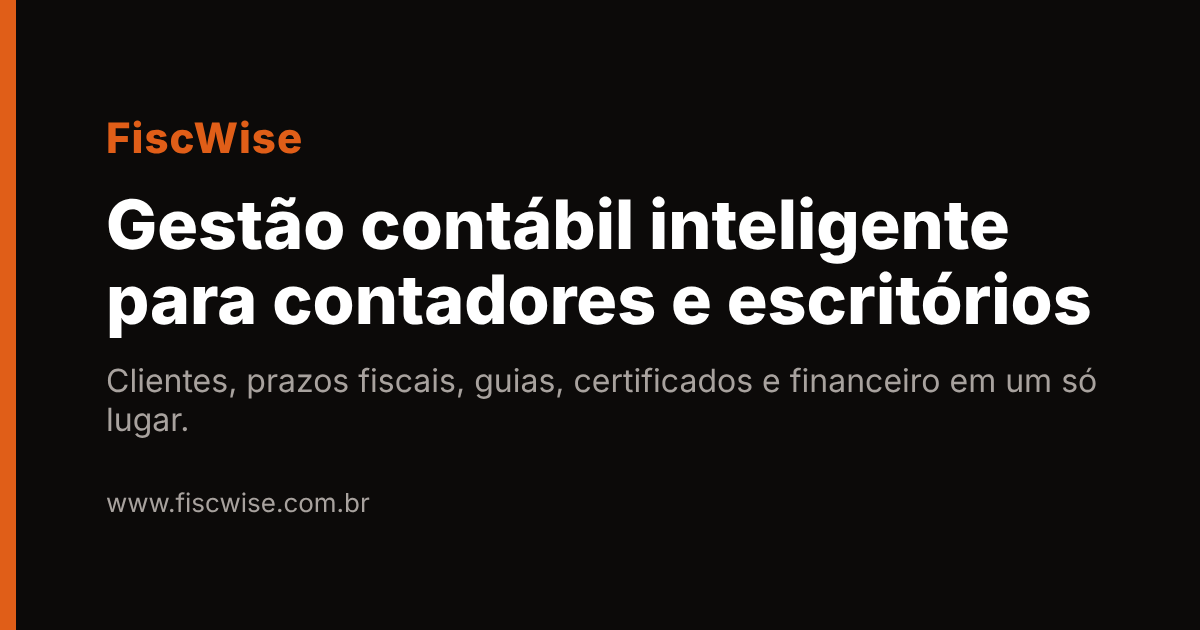
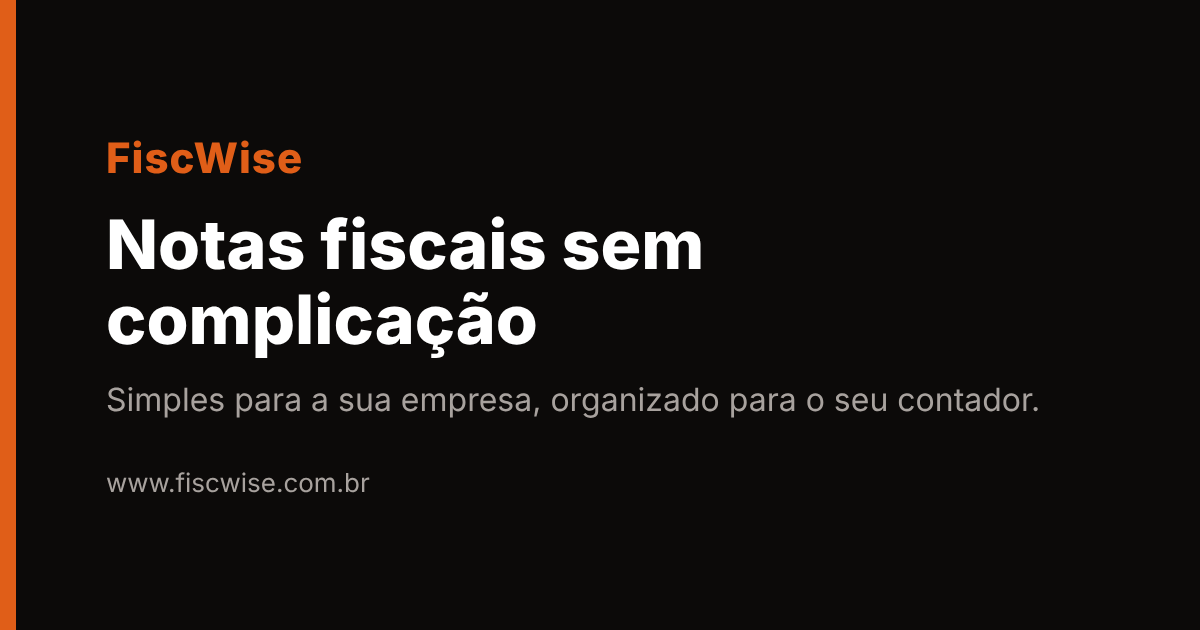
feat(seo): alinha titulos e descricoes ao posicionamento (sem prometer recursos nao lancados)
Claude-Session: https://claude.ai/code/session_0112FhRrGcaLcSm8QCpFB4gY

Changed region(s): [[0.0925, 0.3016, 0.925, 0.6937], [0.0925, 0.181, 0.2775, 0.2714], [0.0925, 0.754, 0.3083, 0.8143]]

diff --git a/frontend/index.html b/frontend/index.html
@@ -11,10 +11,10 @@
     <meta name="viewport" content="width=device-width, initial-scale=1.0" />
 
     <!-- SEO / meta primários -->
-    <title>FiscWise — Gestão Contábil Inteligente</title>
+    <title>FiscWise — Notas fiscais sem complicação</title>
     <meta
       name="description"
-      content="FiscWise é o sistema de gestão contábil para contadores e escritórios: clientes, documentos, obrigações e prazos fiscais, guias, certificados digitais e financeiro em um só lugar."
+      content="Emita notas fiscais sem complicação. Simples para a sua empresa, organizado para o seu contador: clientes, documentos, prazos fiscais, guias e certificados em um só lugar."
     />
     <meta name="theme-color" content="#e05e18" />
     <meta name="robots" content="index, follow, max-image-preview:large" />
@@ -29,17 +29,17 @@
     <meta property="og:locale"      content="pt_BR" />
     <meta property="og:site_name"   content="FiscWise" />
     <meta property="og:url"         content="https://www.fiscwise.com.br/" />
-    <meta property="og:title"       content="FiscWise — Gestão Contábil Inteligente" />
-    <meta property="og:description" content="Unifique clientes, documentos, certificados e prazos fiscais. Simplifique a operação do seu escritório contábil." />
+    <meta property="og:title"       content="FiscWise — Notas fiscais sem complicação" />
+    <meta property="og:description" content="Simples para a sua empresa, organizado para o seu contador. Notas, prazos fiscais, guias e documentos em um só lugar." />
     <meta property="og:image"       content="https://www.fiscwise.com.br/og-image.png" />
     <meta property="og:image:width" content="1200" />
     <meta property="og:image:height" content="630" />
-    <meta property="og:image:alt"   content="FiscWise — gestão contábil inteligente para contadores e escritórios" />
+    <meta property="og:image:alt"   content="FiscWise — Notas fiscais sem complicação, organizadas para o seu contador" />
 
     <!-- Twitter Card -->
     <meta name="twitter:card"        content="summary_large_image" />
-    <meta name="twitter:title"       content="FiscWise — Gestão Contábil Inteligente" />
-    <meta name="twitter:description" content="Plataforma de gestão para contadores e escritórios de contabilidade." />
+    <meta name="twitter:title"       content="FiscWise — Notas fiscais sem complicação" />
+    <meta name="twitter:description" content="Notas fiscais e gestão fiscal para empresas e contadores." />
     <meta name="twitter:image"       content="https://www.fiscwise.com.br/og-image.png" />
 
     <!-- Fontes V-STACK: Syne (display) + Geist (corpo) + JetBrains Mono (dados) — swap para sem FOIT -->
@@ -63,7 +63,7 @@
           "@id": "https://www.fiscwise.com.br/#software",
           "name": "FiscWise",
           "url": "https://www.fiscwise.com.br",
-          "description": "Plataforma de gestão contábil inteligente para escritórios de contabilidade. Gerencie clientes, documentos, certificados digitais, prazos fiscais e financeiro em um único lugar.",
+          "description": "Sistema de gestão fiscal para pequenas empresas e escritórios de contabilidade: notas fiscais, clientes, documentos, certificados digitais, prazos fiscais e financeiro em um único lugar.",
           "applicationCategory": "BusinessApplication",
           "applicationSubCategory": "Contabilidade",
           "operatingSystem": "Web",
@@ -127,8 +127,8 @@
     <div id="root"></div>
     <noscript>
       <main style="max-width:640px;margin:48px auto;padding:0 16px;font-family:system-ui,sans-serif;line-height:1.6">
-        <h1>FiscWise — gestão contábil inteligente</h1>
-        <p>Sistema para contadores e escritórios de contabilidade: clientes, documentos, obrigações e prazos fiscais, guias, certificados digitais, fechamento mensal e financeiro em um só lugar.</p>
+        <h1>FiscWise — Notas fiscais sem complicação</h1>
+        <p>Emita notas fiscais sem complicação. Simples para a sua empresa, organizado para o seu contador: clientes, documentos, obrigações e prazos fiscais, guias, certificados digitais, fechamento mensal e financeiro em um só lugar.</p>
         <p>O FiscWise precisa de JavaScript para funcionar. <a href="/faq/">Perguntas frequentes</a> · <a href="/register">Criar conta</a> · <a href="/login">Entrar</a></p>
       </main>
     </noscript>

diff --git a/frontend/src/lib/RouteTitle.tsx b/frontend/src/lib/RouteTitle.tsx
@@ -5,7 +5,7 @@ import { matchPath, useLocation } from 'react-router-dom';
  * Per-route document title management.
  *
  * The SPA only had the static <title> from index.html, so every internal
- * screen showed "FiscWise — Gestão Contábil Inteligente" (bad for browser
+ * screen showed "FiscWise — Notas fiscais sem complicação" (bad for browser
  * tabs, history and bookmarks — CORRECOES.md, audit of internal routes).
  *
  * This component maps the current pathname to a friendly title and updates
@@ -66,15 +66,15 @@ export function resolveTitle(pathname: string): string {
     }
   }
   // Fallback: keep the brand title for unmapped routes.
-  return `${SUFFIX} — Gestão Contábil Inteligente`;
+  return `${SUFFIX} — Notas fiscais sem complicação`;
 }
 
 const SITE = 'https://www.fiscwise.com.br';
 
 /** Páginas públicas indexáveis: caminho → descrição única. */
 const PUBLIC_META: Readonly<Record<string, string>> = {
-  '/login': 'Entre no FiscWise, o sistema de gestão contábil para contadores e escritórios: clientes, prazos fiscais, guias e documentos em um só lugar.',
-  '/register': 'Crie sua conta no FiscWise e organize clientes, obrigações fiscais, guias, certificados e financeiro do seu escritório contábil.',
+  '/login': 'Entre no FiscWise, notas fiscais sem complicação para empresas e contadores: clientes, prazos fiscais, guias e documentos em um só lugar.',
+  '/register': 'Crie sua conta no FiscWise: notas fiscais, clientes, obrigações fiscais, guias e certificados em um só lugar, simples para a empresa e organizado para o contador.',
   '/termos': 'Termos de uso do FiscWise, sistema de gestão contábil da Vstack Solutions.',
   '/privacidade': 'Política de privacidade do FiscWise: como tratamos dados pessoais conforme a LGPD.',
 };

diff --git a/frontend/public/faq/index.html b/frontend/public/faq/index.html
@@ -13,7 +13,7 @@
   <meta property="og:site_name" content="FiscWise" />
   <meta property="og:url" content="https://www.fiscwise.com.br/faq/" />
   <meta property="og:title" content="Perguntas frequentes — FiscWise" />
-  <meta property="og:description" content="Respostas diretas sobre o FiscWise, o sistema de gestão contábil para contadores e escritórios." />
+  <meta property="og:description" content="Respostas diretas sobre o FiscWise, notas fiscais e gestão fiscal para empresas e contadores." />
   <meta property="og:image" content="https://www.fiscwise.com.br/og-image.png" />
   <meta property="og:image:width" content="1200" />
   <meta property="og:image:height" content="630" />

diff --git a/frontend/src/lib/RouteTitle.test.ts b/frontend/src/lib/RouteTitle.test.ts
@@ -29,6 +29,6 @@ describe('resolveTitle', () => {
   });
 
   it('falls back to the brand title for unmapped routes', () => {
-    expect(resolveTitle('/rota-inexistente')).toBe('FiscWise — Gestão Contábil Inteligente');
+    expect(resolveTitle('/rota-inexistente')).toBe('FiscWise — Notas fiscais sem complicação');
   });
 });

diff --git a/README.md b/README.md
@@ -6,7 +6,7 @@
 
 ## 1. O que é o FiscWise
 
-O FiscWise é a central operacional do contador: organiza a carteira de clientes, documentos, obrigações, guias, honorários e o fechamento mensal em um único sistema, com IA fiscal de apoio. Elimina controles paralelos (planilhas) e reduz risco de perda de prazo.
+O FiscWise ajuda a empresa a emitir notas fiscais sem complicação e dá ao contador um painel organizado ("simples para a sua empresa, organizado para o seu contador"). Hoje é a central operacional do contador: organiza a carteira de clientes, documentos, obrigações, guias, honorários e o fechamento mensal em um único sistema, com IA fiscal de apoio. Elimina controles paralelos (planilhas) e reduz risco de perda de prazo.
 
 As **integrações governamentais** (emissão NFS-e, consulta e-CAC/Receita, Caixa Postal SERPRO, envio WhatsApp oficial) estão no roadmap e dependem de credenciais/contratos externos — o estado atual de cada módulo está marcado na tabela abaixo. O FiscWise **não** apresenta dado governamental simulado como oficial em produção.
 
